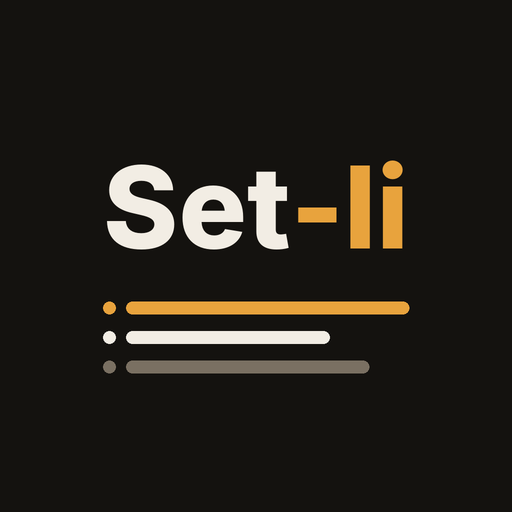
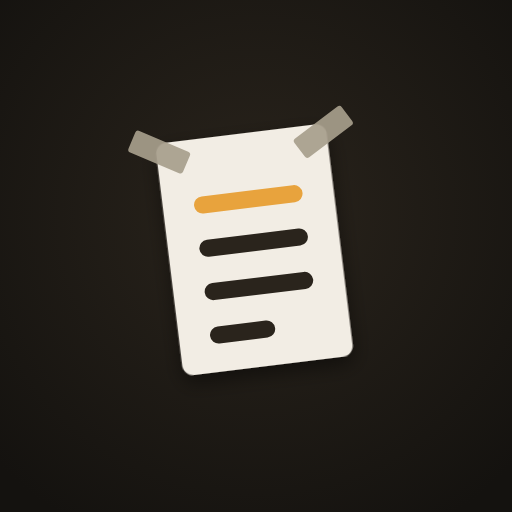
v1.83.0: アプリのアイコンを床に貼ったセットリストの形に
Claude-Session: https://claude.ai/code/session_01XBER4d8GT4CZjhEGX2mxmY

Changed region(s): [[0.1875, 0.1875, 0.8125, 0.75]]

diff --git a/index.html b/index.html
@@ -22,8 +22,8 @@
 <meta name="mobile-web-app-capable" content="yes">
 <meta name="apple-mobile-web-app-title" content="セットリスト">
 <meta name="apple-mobile-web-app-status-bar-style" content="black-translucent">
-<link rel="apple-touch-icon" href="icons/apple-touch-icon.png?v=2">
-<link rel="icon" type="image/png" href="icons/icon-192.png?v=2">
+<link rel="apple-touch-icon" href="icons/apple-touch-icon.png?v=3">
+<link rel="icon" type="image/png" href="icons/icon-192.png?v=3">
 <style>
 :root{
   --bg:#EDE8DE; --surface:#F8F5EC; --surface2:#FFFFFF; --text:#211D16; --muted:#6B6355;
@@ -1191,7 +1191,7 @@ if(songsMigrated) saveSongs();
 let livesMigrated = false;
 lives.forEach((l,i) => { if(l.updatedAt===undefined){ l.updatedAt = i; livesMigrated = true; } });
 if(livesMigrated) saveLives();
-const APP_VERSION = '1.82.2';        // セマンティックバージョン（メジャー.マイナー.パッチ）。更新のたびに上げる。CHANGELOG.md と合わせる
+const APP_VERSION = '1.83.0';        // セマンティックバージョン（メジャー.マイナー.パッチ）。更新のたびに上げる。CHANGELOG.md と合わせる
 const APP_RELEASE_DATE = '2026-10-30';
 const SCHEMA_VERSION = 1;  // 保存データの形式番号。データ構造を変えるときに上げ、起動時に古い形式を変換する
 const FEEDBACK_URL = 'https://tally.so/r/9qL0A4';  // 感想フォーム（Tally。バンドマン持ち物リストと共通で、?app= でアプリを自動で選ぶ）
@@ -1228,6 +1228,10 @@ function feedbackUrl(){
 const CHANGELOG_URL = 'https://github.com/sunatrux/setlist/blob/main/CHANGELOG.md';
 // アップデート後に一度だけ出すお知らせ（最新版の分だけ書けばOK。無い版はお知らせを出さない）
 const RELEASE_NOTES = {
+  '1.83.0': [
+    'アプリのアイコンを、ステージの床にテープで貼ったセットリストの形に（タイトルのアイコンとおそろい）',
+    'ホーム画面のアイコンは、いったんホーム画面から削除して追加し直すと新しくなります'
+  ],
   '1.82.2': [
     'タイトルのアイコンを、ステージの床にテープで貼ったセットリストの形に'
   ],

diff --git a/sw.js b/sw.js
@@ -1,7 +1,7 @@
 // プレイヤーズセットリスト Service Worker
 // 方針：ネット優先（最新版を取りに行く）→ 3秒以内に返事がない／オフラインなら保存済みの版で起動する。
 // アプリの更新は index.html の差し替えだけでOK。このファイルを変える必要はありません。
-const CACHE = 'players-setlist-v79';
+const CACHE = 'players-setlist-v80';
 const ASSETS = ['./', './index.html', './manifest.webmanifest', './icons/apple-touch-icon.png', './icons/icon-192.png'];
 const TIMEOUT_MS = 3000;
 

diff --git a/CHANGELOG.md b/CHANGELOG.md
@@ -9,6 +9,11 @@
 
 アプリ内では「設定」タブの一番下に、現在のバージョンとリリース日が表示されます。
 
+## [1.83.0] - 2026-10-30
+
+### 変更
+- アプリのアイコン（ホーム画面・ブラウザのタブ）を、ステージの床にテープで貼ったセットリストの形に。暗い床に少し傾けた白い紙、上の角にテープ、1曲目の線はオレンジ（タイトルのアイコンとおそろい）。すでにホーム画面に追加している場合は、削除して追加し直すと新しいアイコンになる
+
 ## [1.82.2] - 2026-10-30
 
 ### 変更
